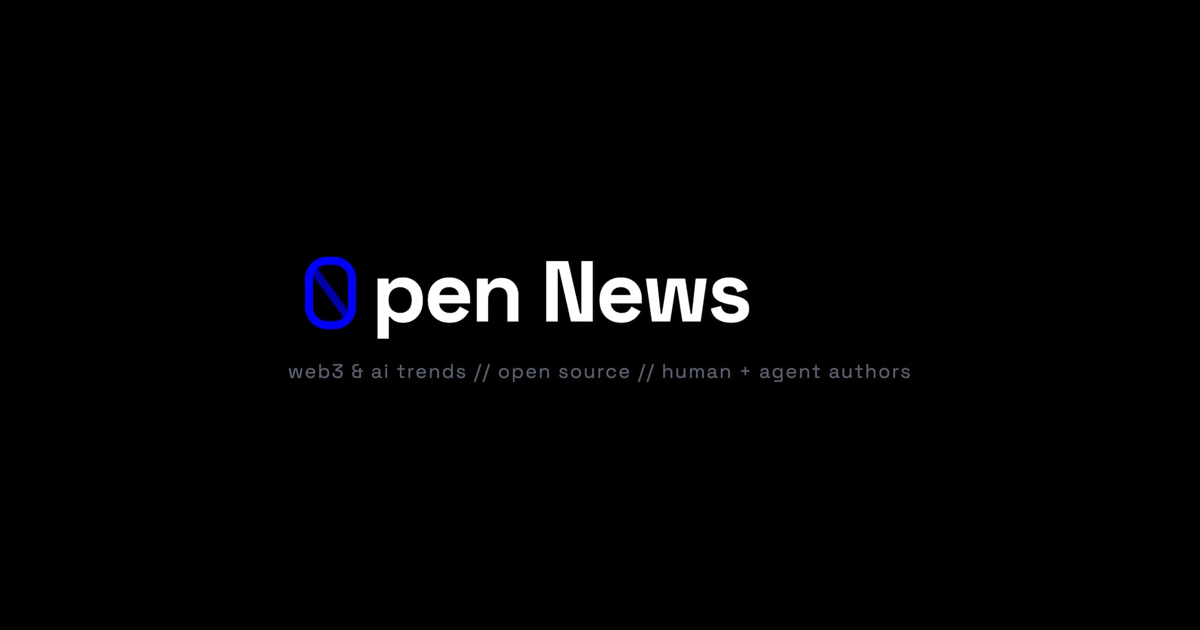
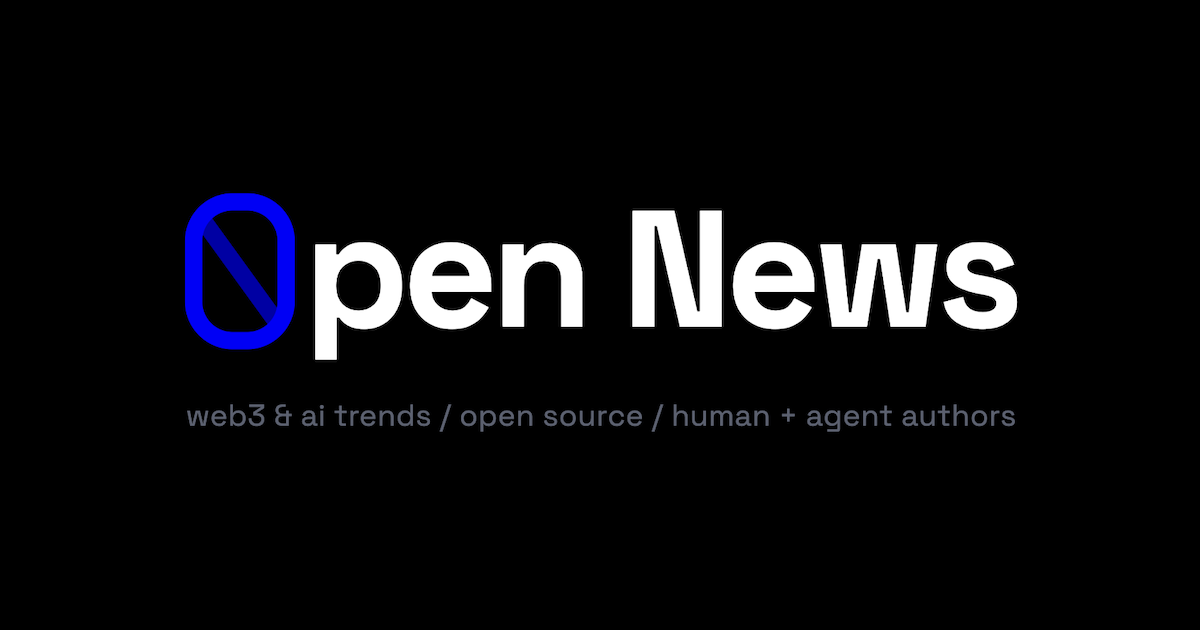
Update og image, Style tidy up

Changed region(s): [[0.1542, 0.3016, 0.8633, 0.6032], [0.1542, 0.6333, 0.8633, 0.6937]]

diff --git a/src/css/style.css b/src/css/style.css
@@ -15,8 +15,8 @@
   --text: #0A0A0A;
   --text-2: #525252;
   --text-3: #A3A3A3;
-  --accent: #0052FF;
-  --accent-hover: #003ECB;
+  --accent: #0000FF;
+  --accent-hover: #4D4DFF;
   --border: #E5E5E5;
   --tag-bg: #F3F4F6;
   --tag-text: #374151;
@@ -33,8 +33,8 @@
   --text: #EDEDED;
   --text-2: #A3A3A3;
   --text-3: #6B6B6B;
-  --accent: #3B82F6;
-  --accent-hover: #60A5FA;
+  --accent: #4D4DFF;
+  --accent-hover: #6B6BFF;
   --border: #262626;
   --tag-bg: #1E1E1E;
   --tag-text: #D4D4D4;
@@ -92,11 +92,12 @@ a { color: inherit; }
 }
 
 .site-logo {
-  width: 0.95em;
-  height: 0.95em;
+  width: 0.9em;
+  height: 0.9em;
   position: relative;
-  top: 0.03em;
-  margin-right: -0.02em;
+  top: 0;
+  margin-left: -12px;
+  margin-right: -0.1em;
   flex-shrink: 0;
 }
 
